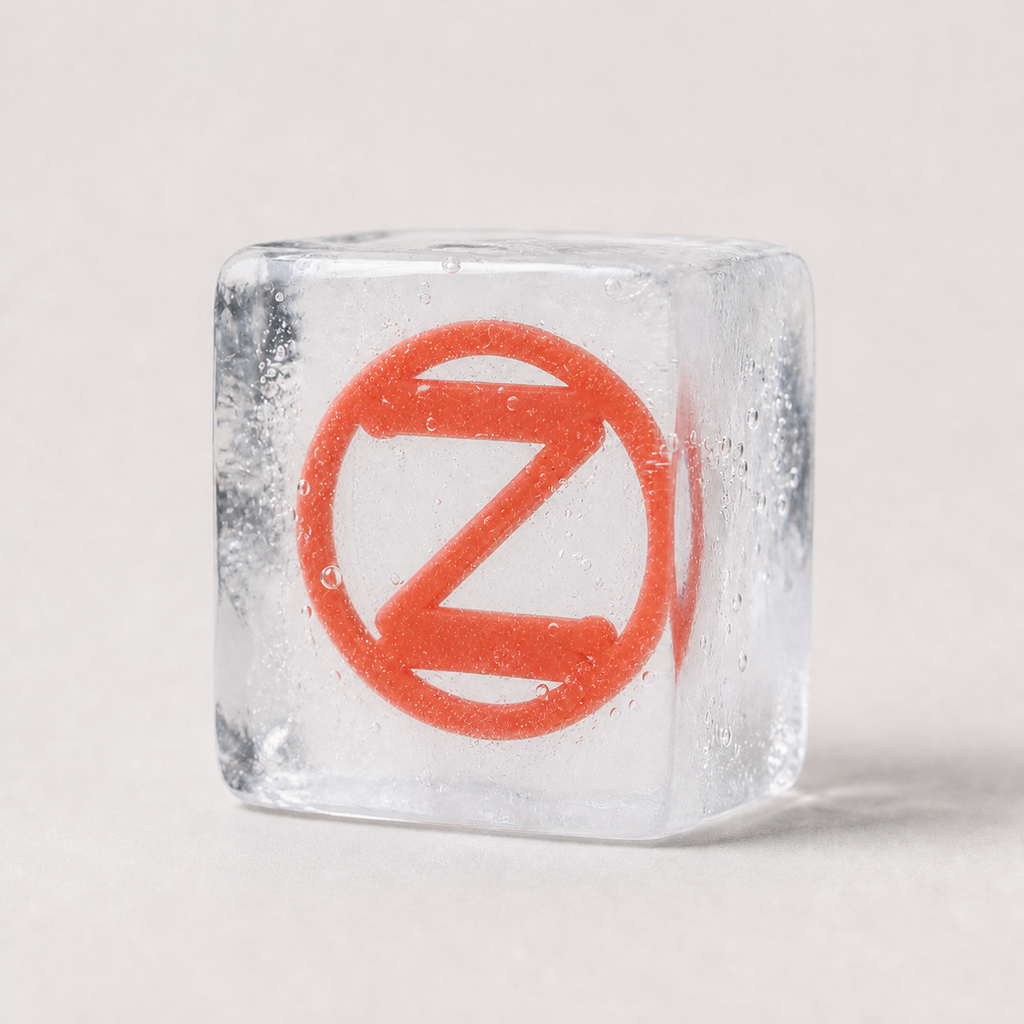
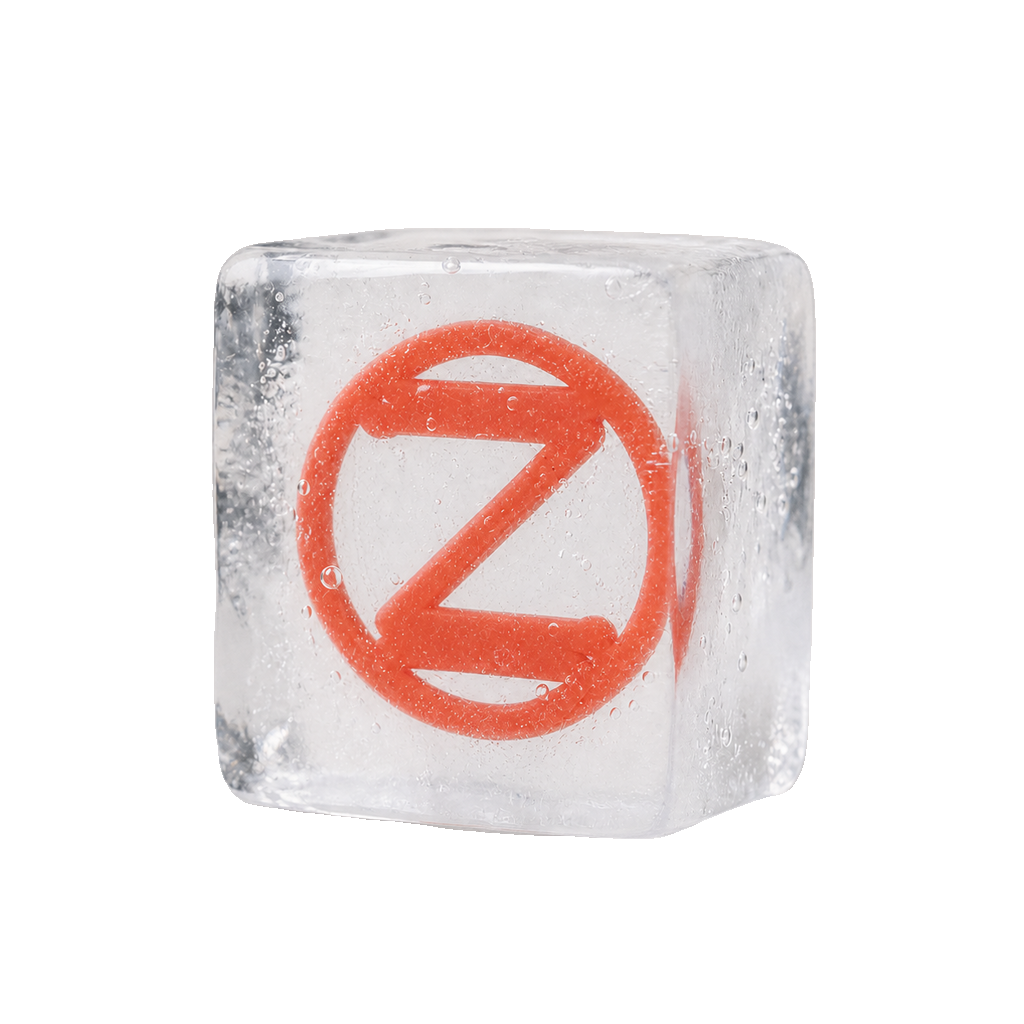
fix(brand): make ice hero background transparent

diff --git a/assets/brand/README.md b/assets/brand/README.md
@@ -2,15 +2,15 @@
 
 The Zwei mark belongs to the shared Heliantheon visual family: geometric construction, rounded strokes, strong negative space, and a single product accent.
 
-| File                  | Purpose                                          |
-| --------------------- | ------------------------------------------------ |
-| `mark.svg`            | Primary full-color vector mark                   |
-| `mark-monochrome.svg` | Single-color mark for neutral surfaces           |
-| `icon-512.png`        | Raster icon for platforms that do not accept SVG |
-| `hero-ice.png`        | Ice-block hero for README and promotional use    |
+| File                  | Purpose                                                   |
+| --------------------- | --------------------------------------------------------- |
+| `mark.svg`            | Primary full-color vector mark                            |
+| `mark-monochrome.svg` | Single-color mark for neutral surfaces                    |
+| `icon-512.png`        | Raster icon for platforms that do not accept SVG          |
+| `hero-ice.png`        | Transparent ice-block hero for README and promotional use |
 
 - Accent: `#E8503A`
 - Keep clear space around the mark equal to at least one eighth of its width.
 - Do not stretch, rotate, recolor, add effects, or combine the mark with another product emblem.
 - Prefer the primary mark on white or very light neutral backgrounds; use the monochrome mark when color is unavailable.
-- Use the ice-block hero at 256 px or larger; do not use it as a favicon or small interface icon.
+- Use the ice-block hero at 256 px or larger, keep its canvas transparent, and do not use it as a favicon or small interface icon.
